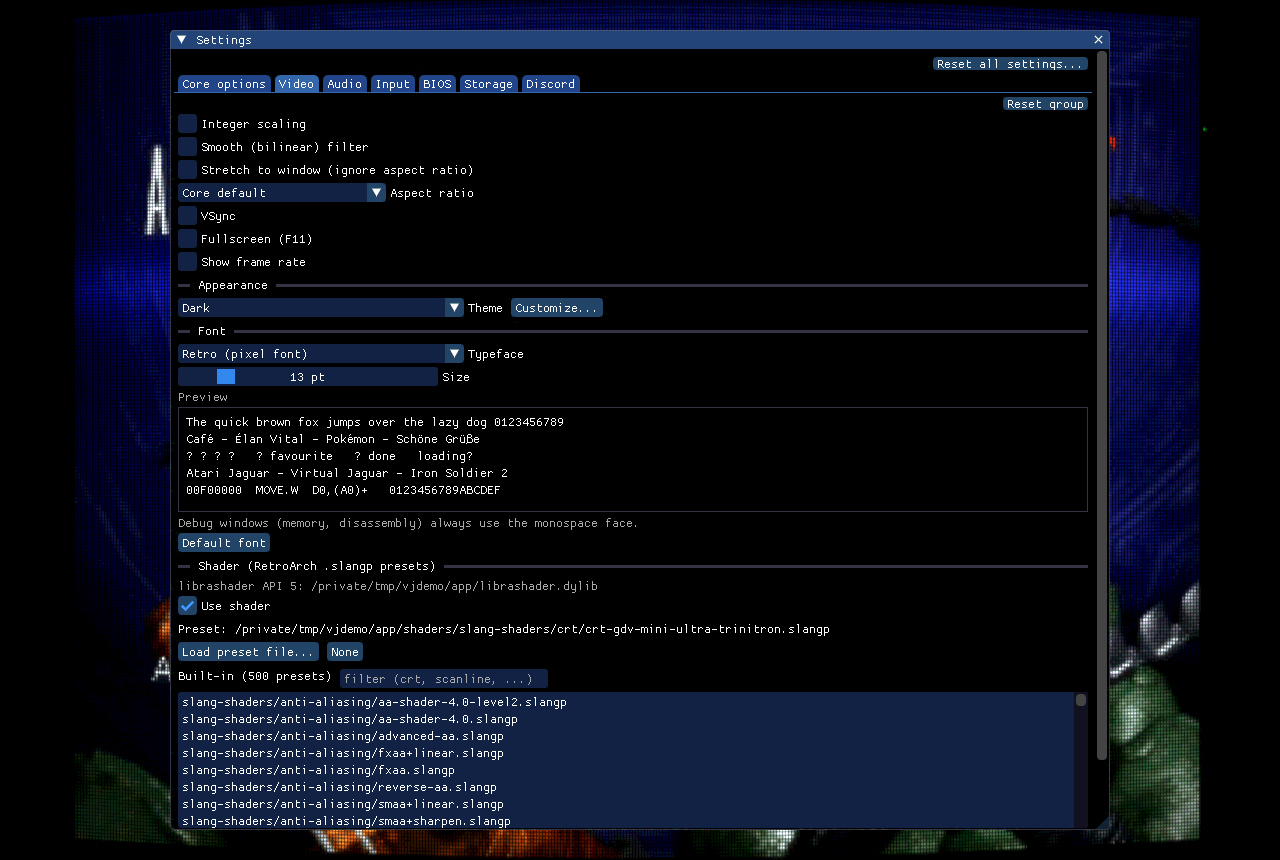
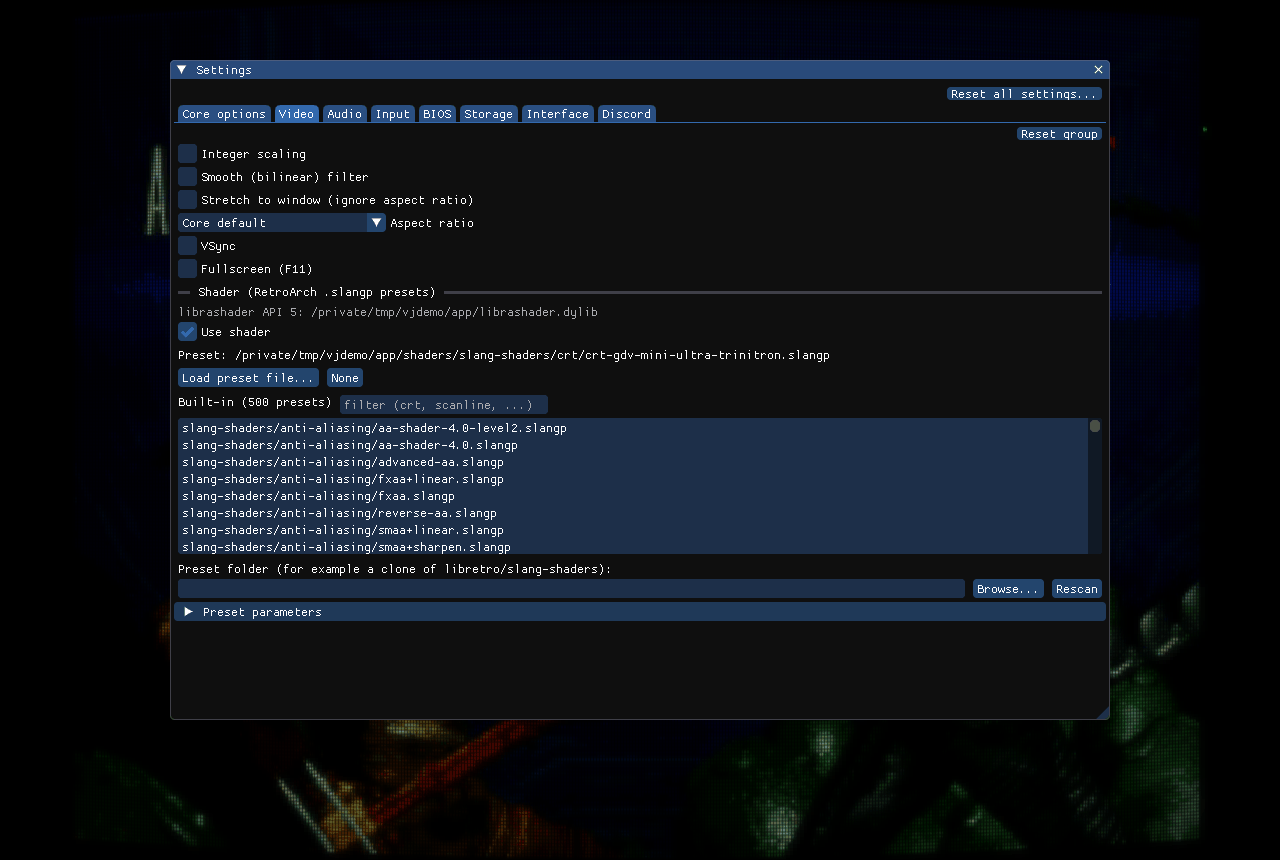
docs(site): retake desktop-app gallery shots for themes, fonts, RetroAchievements, Discord and debug tools
New captures of the v3.9.x app (demo library, fresh temp data dir, no
accounts): Light and two custom themes over the same library view, the theme
editor, Settings > Interface and the font picker (installed fonts drawn in
their own typeface, favorites, recents, debugger font samples), the
RetroAchievements sign-in, This game, Jaguar games and Profile views from the
built-in mock backend, the Settings > Discord tab with Discord off, and the
palette, blitter log, texture browser and audio scope tools. Video settings
is retaken now that theme and font moved to the Interface tab.

The font shots come from the feat/app-font-picker branch (#943 was not merged
yet); the README row and app page get matching cards and captions.

Closes #938

diff --git a/site/pages/app.html b/site/pages/app.html
@@ -211,7 +211,8 @@
 
     <h3 id="look">Look &amp; feel</h3>
     <ul>
-      <li>Dark, light or custom themes (a theme editor with a contrast check), and your choice of interface font at 11 to 24 pt.</li>
+      <li>Dark, light or your own themes: the Theme picker in Settings &gt; Interface follows the OS or takes a fixed choice, and the theme editor changes eleven colours, the rounding and the spacing live, with a contrast check, and exports and imports theme files.</li>
+      <li>Any font installed on your computer for the interface, at 11 to 24 pt: every name in the list is drawn in its own typeface, starred fonts stay at the top, and the debug windows have a monospace font of their own.</li>
       <li>RetroArch <code>.slangp</code> shader presets through librashader, with the slang-shaders CRT, scanline and interpolation families bundled; aspect fit, integer scaling or stretch.</li>
       <li>Native menus: the macOS menu bar and Dock menu, the Windows dark title bar and Jump List, Linux desktop actions; windows can be dragged out of the main window.</li>
     </ul>
@@ -240,9 +241,45 @@
     <div class="gallery">
       <figure class="gal-card">
         <a class="gal-link" href="assets/app_settings_video.png" aria-label="Enlarge: Video settings">
-          <img src="assets/app_settings_video.png" width="1280" height="860" loading="lazy" alt="Settings, Video tab: integer scaling, smooth filter, stretch, aspect ratio, VSync and fullscreen options, an Appearance section with a Dark theme choice and Customize button, a Font section with a preview, and a Shader section with crt-gdv-mini-ultra-trinitron selected.">
+          <img src="assets/app_settings_video.png" width="1280" height="860" loading="lazy" alt="Settings, Video tab: integer scaling, smooth filter, stretch, aspect ratio, VSync and fullscreen options, and a Shader section with the crt-gdv-mini-ultra-trinitron preset selected above a list of 500 built-in presets.">
         </a>
-        <figcaption><strong>Video settings</strong> <span class="gal-cap">Theme, interface font and the shader list, in one tab.</span></figcaption>
+        <figcaption><strong>Video settings</strong> <span class="gal-cap">Integer scaling, filter, aspect ratio and the shader list with its CRT presets.</span></figcaption>
+      </figure>
+      <figure class="gal-card">
+        <a class="gal-link" href="assets/app_settings_interface.png" aria-label="Enlarge: Interface settings">
+          <img src="assets/app_settings_interface.png" width="1280" height="860" loading="lazy" alt="Settings, Interface tab: Show frame rate and controls overlay options, an Appearance section with a Dark theme choice and a Customize button, and a Font section with a searchable typeface list and a size slider.">
+        </a>
+        <figcaption><strong>Interface settings</strong> <span class="gal-cap">Overlays, Theme and Font in one tab: frame rate, controls overlay, typeface and size.</span></figcaption>
+      </figure>
+      <figure class="gal-card">
+        <a class="gal-link" href="assets/app_settings_fonts.png" aria-label="Enlarge: Font picker">
+          <img src="assets/app_settings_fonts.png" width="1280" height="860" loading="lazy" alt="The Font section of Settings, Interface, set to Inter: a searchable list with Built-in, Favorites and Recent groups and every name drawn in its own typeface, a preview of mixed text, and a Debugger font list with a hex and disassembly sample beside each monospace font.">
+        </a>
+        <figcaption><strong>Font picker</strong> <span class="gal-cap">Installed fonts drawn in their own typeface, favorites and recents, and a debugger font with samples.</span></figcaption>
+      </figure>
+      <figure class="gal-card">
+        <a class="gal-link" href="assets/app_theme_light.png" aria-label="Enlarge: Light theme">
+          <img src="assets/app_theme_light.png" width="1280" height="860" loading="lazy" alt="The home screen library with the built-in Light theme: a pale grey background, light buttons and tabs, and the same Favorites, Recently played and box art grid.">
+        </a>
+        <figcaption><strong>Light theme</strong> <span class="gal-cap">The same library in the built-in Light theme.</span></figcaption>
+      </figure>
+      <figure class="gal-card">
+        <a class="gal-link" href="assets/app_theme_jaguar_red.png" aria-label="Enlarge: Custom theme: Jaguar Red">
+          <img src="assets/app_theme_jaguar_red.png" width="1280" height="860" loading="lazy" alt="The home screen library in a custom dark theme named Jaguar Red: near-black red background, dark red tiles and tabs, and red buttons and highlights.">
+        </a>
+        <figcaption><strong>Custom theme</strong> <span class="gal-cap">Jaguar Red, a dark custom theme with a red accent and rounder corners.</span></figcaption>
+      </figure>
+      <figure class="gal-card">
+        <a class="gal-link" href="assets/app_theme_paper.png" aria-label="Enlarge: Custom theme: Paper">
+          <img src="assets/app_theme_paper.png" width="1280" height="860" loading="lazy" alt="The home screen library in a custom light theme named Paper: cream background, sand coloured tiles, green tabs and buttons and larger rounding.">
+        </a>
+        <figcaption><strong>Another theme</strong> <span class="gal-cap">Paper, a warm light theme with a green accent and extra spacing.</span></figcaption>
+      </figure>
+      <figure class="gal-card">
+        <a class="gal-link" href="assets/app_theme_editor.png" aria-label="Enlarge: Theme editor">
+          <img src="assets/app_theme_editor.png" width="1280" height="860" loading="lazy" alt="The Theme editor window over the library in the Jaguar Red theme: a name field, hex colour boxes with swatches for home background, window, input fields, text, accent and the status colours, rounding and spacing sliders, a contrast check message and Save, Duplicate, Delete, Export and Import buttons.">
+        </a>
+        <figcaption><strong>Theme editor</strong> <span class="gal-cap">Eleven colours, rounding and spacing change the whole app live; contrast is checked.</span></figcaption>
       </figure>
     </div>
     <p class="footnote">
@@ -265,6 +302,44 @@
       <li><strong>Discord Rich Presence</strong> (Settings &gt; Discord): shows the game you are playing, its box art, how long and your achievement progress, with a Get Virtual Jaguar button for other people. On by default, needs Discord running, and you can turn it off.</li>
       <li>See the <a href="privacy.html">privacy policy</a> and <a href="terms.html">terms</a> for what the app sends where (box art and database downloads, RetroAchievements, Discord).</li>
     </ul>
+
+    <div class="gallery">
+      <figure class="gal-card">
+        <a class="gal-link" href="assets/app_ra_login.png" aria-label="Enlarge: RetroAchievements sign in">
+          <img src="assets/app_ra_login.png" width="1280" height="860" loading="lazy" alt="The Sign in to RetroAchievements window over a running game: a note that the password is sent once and wiped, User name and Password fields, and Sign in and Cancel buttons.">
+        </a>
+        <figcaption><strong>Sign in</strong> <span class="gal-cap">The password goes to retroachievements.org once; only the login token is kept, in the system keychain.</span></figcaption>
+      </figure>
+      <figure class="gal-card">
+        <a class="gal-link" href="assets/app_ra_achievements.png" aria-label="Enlarge: Achievements, this game">
+          <img src="assets/app_ra_achievements.png" width="1280" height="860" loading="lazy" alt="The Achievements window on the This game tab: a progress bar at 38 percent, 3 of 8 achievements and 30 of 90 points, then a list of achievements with titles, descriptions, points, how many players earned them and whether each is locked or unlocked in hardcore or softcore.">
+        </a>
+        <figcaption><strong>This game</strong> <span class="gal-cap">Badges, points, rarity and unlock dates, with filters, sorting and search.</span></figcaption>
+      </figure>
+      <figure class="gal-card">
+        <a class="gal-link" href="assets/app_ra_games.png" aria-label="Enlarge: Achievements, Jaguar games">
+          <img src="assets/app_ra_games.png" width="1280" height="860" loading="lazy" alt="The Achievements window on the Jaguar games tab filtered to In my library: three games with achievement counts, points, progress bars and Play buttons.">
+        </a>
+        <figcaption><strong>Jaguar games</strong> <span class="gal-cap">Every Jaguar and Jaguar CD game with achievements, your progress, and Play for those in your library.</span></figcaption>
+      </figure>
+      <figure class="gal-card">
+        <a class="gal-link" href="assets/app_ra_profile.png" aria-label="Enlarge: Achievements, profile">
+          <img src="assets/app_ra_profile.png" width="1280" height="860" loading="lazy" alt="The Achievements window on the Profile tab: a user name with hardcore and softcore points, a Sign out button, the Download pictures option and an Unlocked this session list.">
+        </a>
+        <figcaption><strong>Profile</strong> <span class="gal-cap">Your points, the softcore or hardcore rule in force, and what you unlocked this session.</span></figcaption>
+      </figure>
+      <figure class="gal-card">
+        <a class="gal-link" href="assets/app_settings_discord.png" aria-label="Enlarge: Discord settings">
+          <img src="assets/app_settings_discord.png" width="1280" height="860" loading="lazy" alt="Settings, Discord tab: Show what I'm playing on Discord, Show game artwork and Show buttons options, a status line and a note listing exactly what is shared, and a collapsed Application ID section.">
+        </a>
+        <figcaption><strong>Discord</strong> <span class="gal-cap">What is shared with Discord, and switches for artwork and buttons. Off here.</span></figcaption>
+      </figure>
+    </div>
+    <p class="footnote">
+      The RetroAchievements pictures come from the app&rsquo;s built-in mock
+      server (a sample account and sample games), so no real account or
+      network was involved, and Discord was off for its picture.
+    </p>
 
     <h3 id="devtools">Developer tools</h3>
     <ul>
@@ -296,6 +371,30 @@
           <img src="assets/app_dbg_scanner.png" width="1280" height="860" loading="lazy" alt="The Cheat scanner window: a value size picker, Signed and Aligned options, an initial value mode and Start search, Undo and New search buttons.">
         </a>
         <figcaption><strong>Cheat scanner</strong> <span class="gal-cap">Search RAM for a changing value; finds become ordinary cheats.</span></figcaption>
+      </figure>
+      <figure class="gal-card">
+        <a class="gal-link" href="assets/app_dbg_palette.png" aria-label="Enlarge: Palette editor">
+          <img src="assets/app_dbg_palette.png" width="1280" height="860" loading="lazy" alt="The Palette (CLUT) window over Alien vs Predator: a CRY or RGB16 choice and a 16 by 16 grid of colour swatches spanning the hue and brightness range.">
+        </a>
+        <figcaption><strong>Palette (CLUT)</strong> <span class="gal-cap">The 256-entry colour lookup table as CRY or RGB16; click a swatch to edit it.</span></figcaption>
+      </figure>
+      <figure class="gal-card">
+        <a class="gal-link" href="assets/app_dbg_blitter.png" aria-label="Enlarge: Blitter log">
+          <img src="assets/app_dbg_blitter.png" width="1280" height="860" loading="lazy" alt="The Blitter log window: counters for shown, seen and missed launches and a table of blits with frame, command flags, A1 and A2 addresses, size and engine.">
+        </a>
+        <figcaption><strong>Blitter log</strong> <span class="gal-cap">Every blit the game launches, newest first, with a filter and a full decode of each.</span></figcaption>
+      </figure>
+      <figure class="gal-card">
+        <a class="gal-link" href="assets/app_dbg_textures.png" aria-label="Enlarge: Texture browser">
+          <img src="assets/app_dbg_textures.png" width="1280" height="860" loading="lazy" alt="The Textures window with Dump textures while playing ticked: a count of 856 captured tiles for Alien vs Predator, filter and size controls, and a grid of tile thumbnails.">
+        </a>
+        <figcaption><strong>Texture browser</strong> <span class="gal-cap">Dump the tiles a game blits, then export them or swap in your own art.</span></figcaption>
+      </figure>
+      <figure class="gal-card">
+        <a class="gal-link" href="assets/app_dbg_scope.png" aria-label="Enlarge: Audio scope">
+          <img src="assets/app_dbg_scope.png" width="1280" height="860" loading="lazy" alt="The Audio scope window: left and right waveform plots over 1024 samples and level meters with peak markers near minus 13 decibels.">
+        </a>
+        <figcaption><strong>Audio scope</strong> <span class="gal-cap">What the core sends to the audio device: left and right waveforms and peak meters.</span></figcaption>
       </figure>
     </div>
   </div>

diff --git a/README.md b/README.md
@@ -47,6 +47,10 @@ A standalone front end for the same core, in `app/`: SDL3 for window, audio and 
   <img src="site/assets/app_library.png" width="49%" alt="The app's game library: Favorites and Recently played strips above a grid of Atari Jaguar box art tiles, under Cartridges, Jaguar CD, Save states and BIOS and system tabs">
   <img src="site/assets/app_game_crt.png" width="49%" alt="The Alien vs Predator menu drawn through the crt-gdv-mini-ultra-trinitron aperture-grille shader preset">
 </p>
+<p>
+  <img src="site/assets/app_theme_jaguar_red.png" width="49%" alt="The library in a custom dark theme named Jaguar Red, with a red accent">
+  <img src="site/assets/app_ra_achievements.png" width="49%" alt="The Achievements window listing a sample game's achievements with points, rarity and unlock dates (a mock RetroAchievements account)">
+</p>
 
 - **Library:** your games in Cartridges, Jaguar CD, Favorites, Recently played, Save states and BIOS & system tabs; identified by CRC32 (No-Intro, Redump), box art from [libretro-thumbnails](https://github.com/libretro-thumbnails/Atari_-_Jaguar) on demand, title cards or your own cover for discs.
 - **Playing:** save states with thumbnails and "Resume where I left off", per-device and per-game remapping (all 12 keypad keys, rotary, mice, light gun, Team Tap), cheats from the libretro database, several windows at once, and link-cable netplay on a local network (not rollback, not for the Internet).
